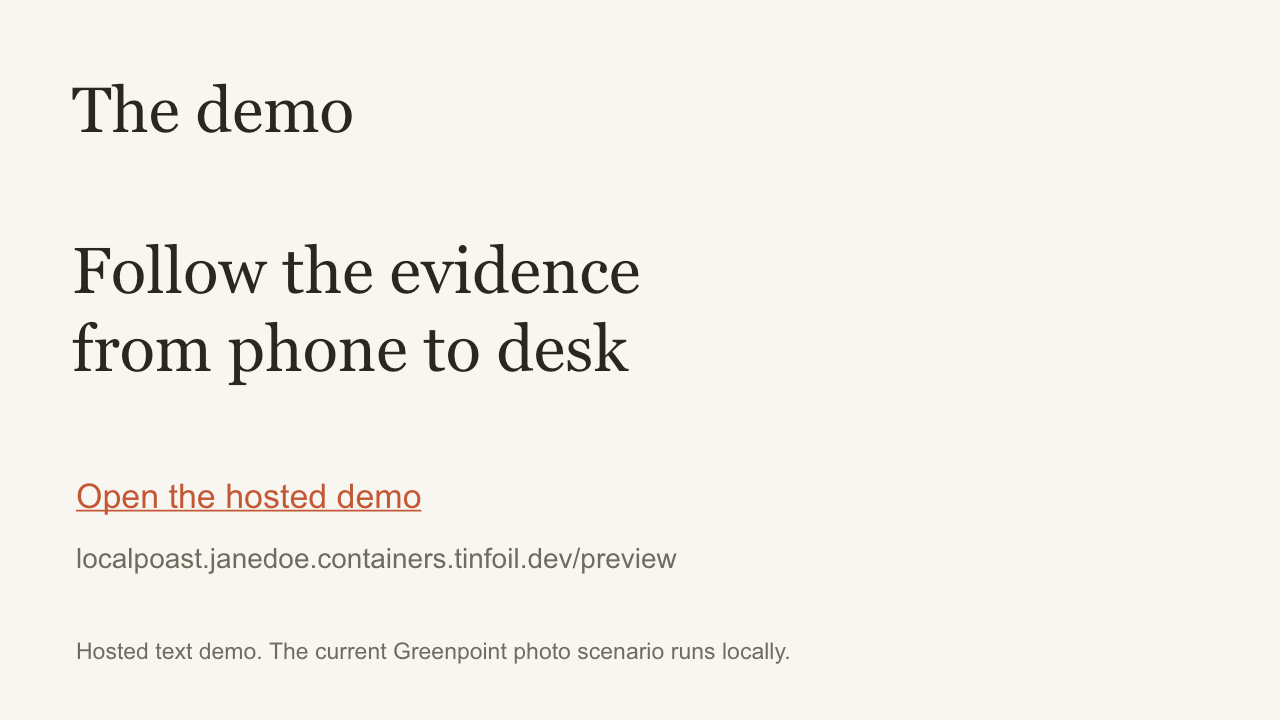
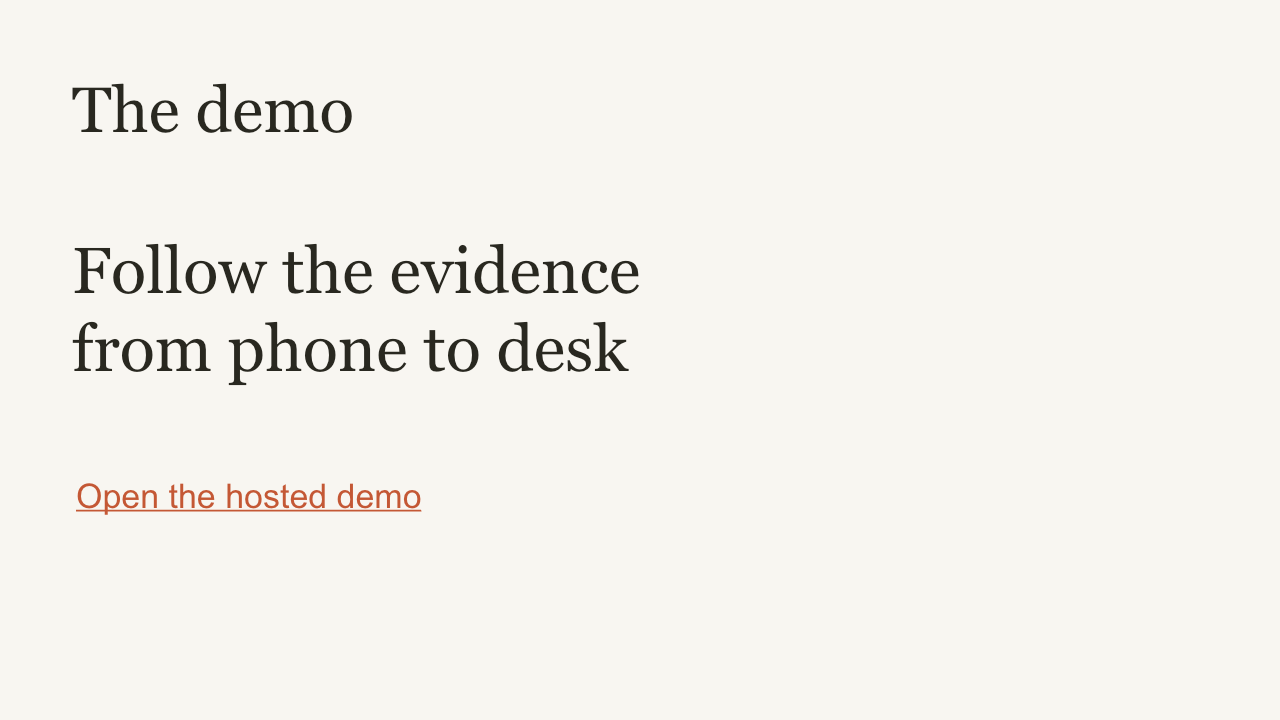
Simplify the demo slide preview

Changed region(s): [[0.0625, 0.8861, 0.625, 0.9167], [0.0625, 0.7639, 0.5312, 0.7944]]

diff --git a/README.md b/README.md
@@ -43,4 +43,4 @@ Use the [local desk](http://localhost:5173/desk) for the Greenpoint photo demo. 
 
 ![Slide 5: The fictional Greenpoint cleanup case in the app](docs/pitch/slide-5.png)
 
-![Slide 6: Hosted demo link and local photo demo](docs/pitch/slide-6.png)
+![Slide 6: Open the hosted demo](docs/pitch/slide-6.png)
